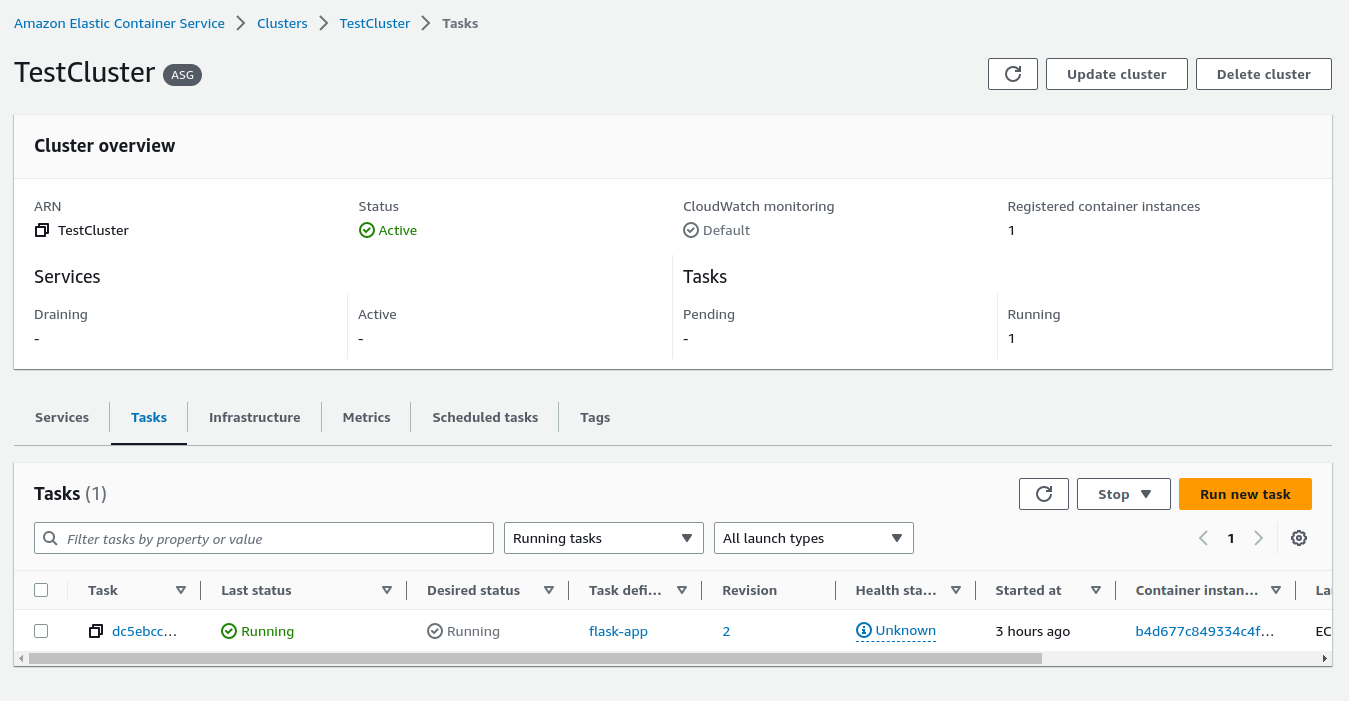
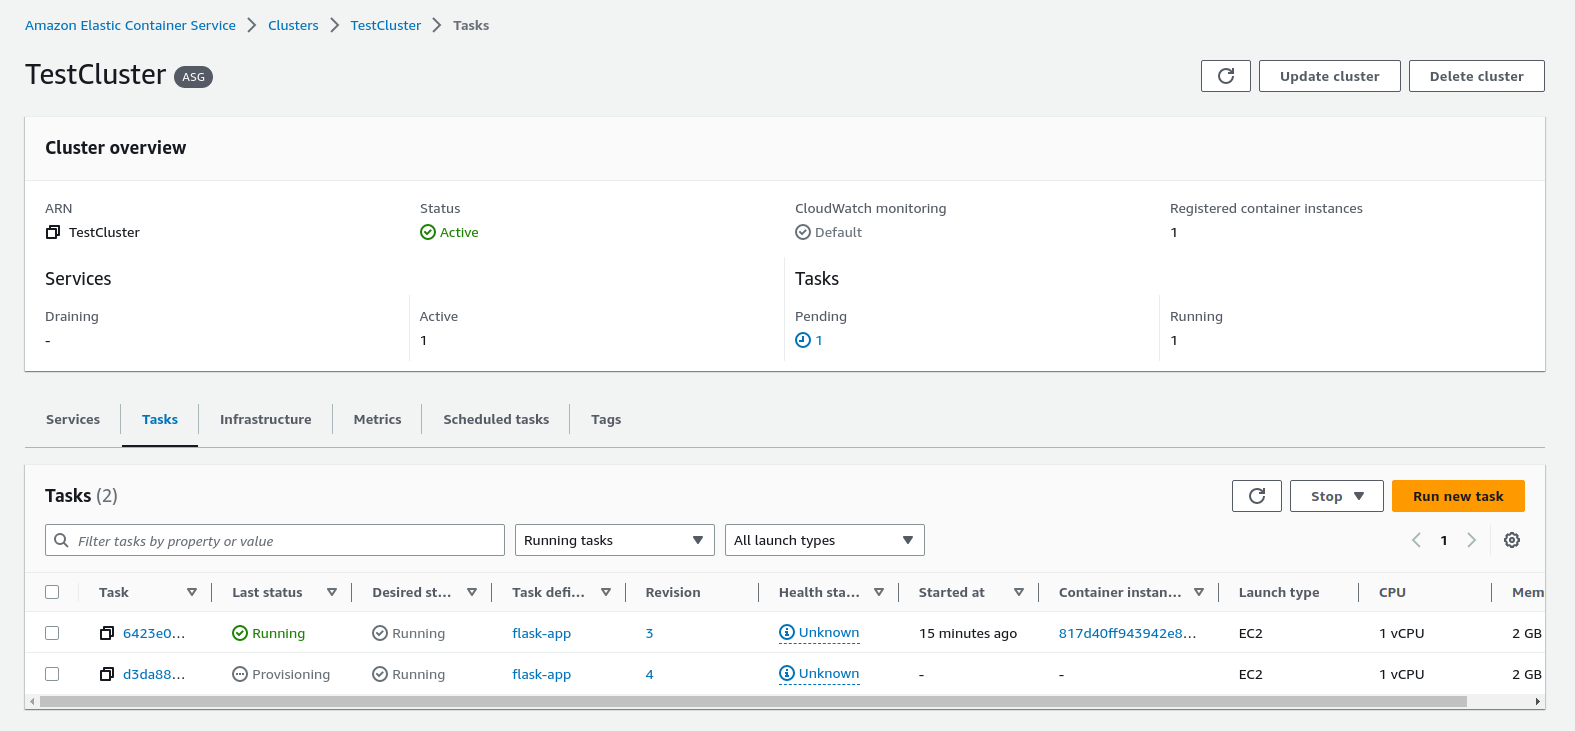
Updated README

diff --git a/README.md b/README.md
@@ -1,6 +1,6 @@
 # CHALLENGE MACHINE LEARNING ENGINEER
 
-*[UPDATE 15/04/2023]: Se actualizó la gestión de nombres de las imágenes registradas en ECR usando el formato latest-$NOW, donde NOW es la fecha actual. Ver push_to_ecr.yml*
+*[UPDATE 15/04/2023]: Se actualizó la gestión de nombres de las imágenes registradas en ECR usando el formato latest-$NOW, donde NOW es la fecha actual, para permitir versionado. Ver push_to_ecr.yml*
 
 
 # Previo
@@ -100,7 +100,10 @@ ECR: Repositorio nnchallenge
 ECS: cluster TestCluster
 ![](./media/ECS.png)
 
-La API es accesible a través de internet mediante la url http://3.92.58.24:5000/predict, se ha relacionado el puerto 5000 del host con el puerto 5000 del container, de tal forma que puedan enviarse requests desde el exterior. Además se han configurado el grupo de seguridad y las reglas de ruteo de la instancia. 
+ECS-Services
+![](./media/ECS-Services.png)
+
+La API es accesible a través de internet mediante la url http://3.92.58.24:5000/predict (url dinámica por ahora), se ha relacionado el puerto 5000 del host con el puerto 5000 del container, de tal forma que puedan enviarse requests desde el exterior. Además se han configurado el grupo de seguridad y las reglas de ruteo de la instancia. 
 
 Request y respuesta de la instancia:
 ![](./media/Postman.png)
